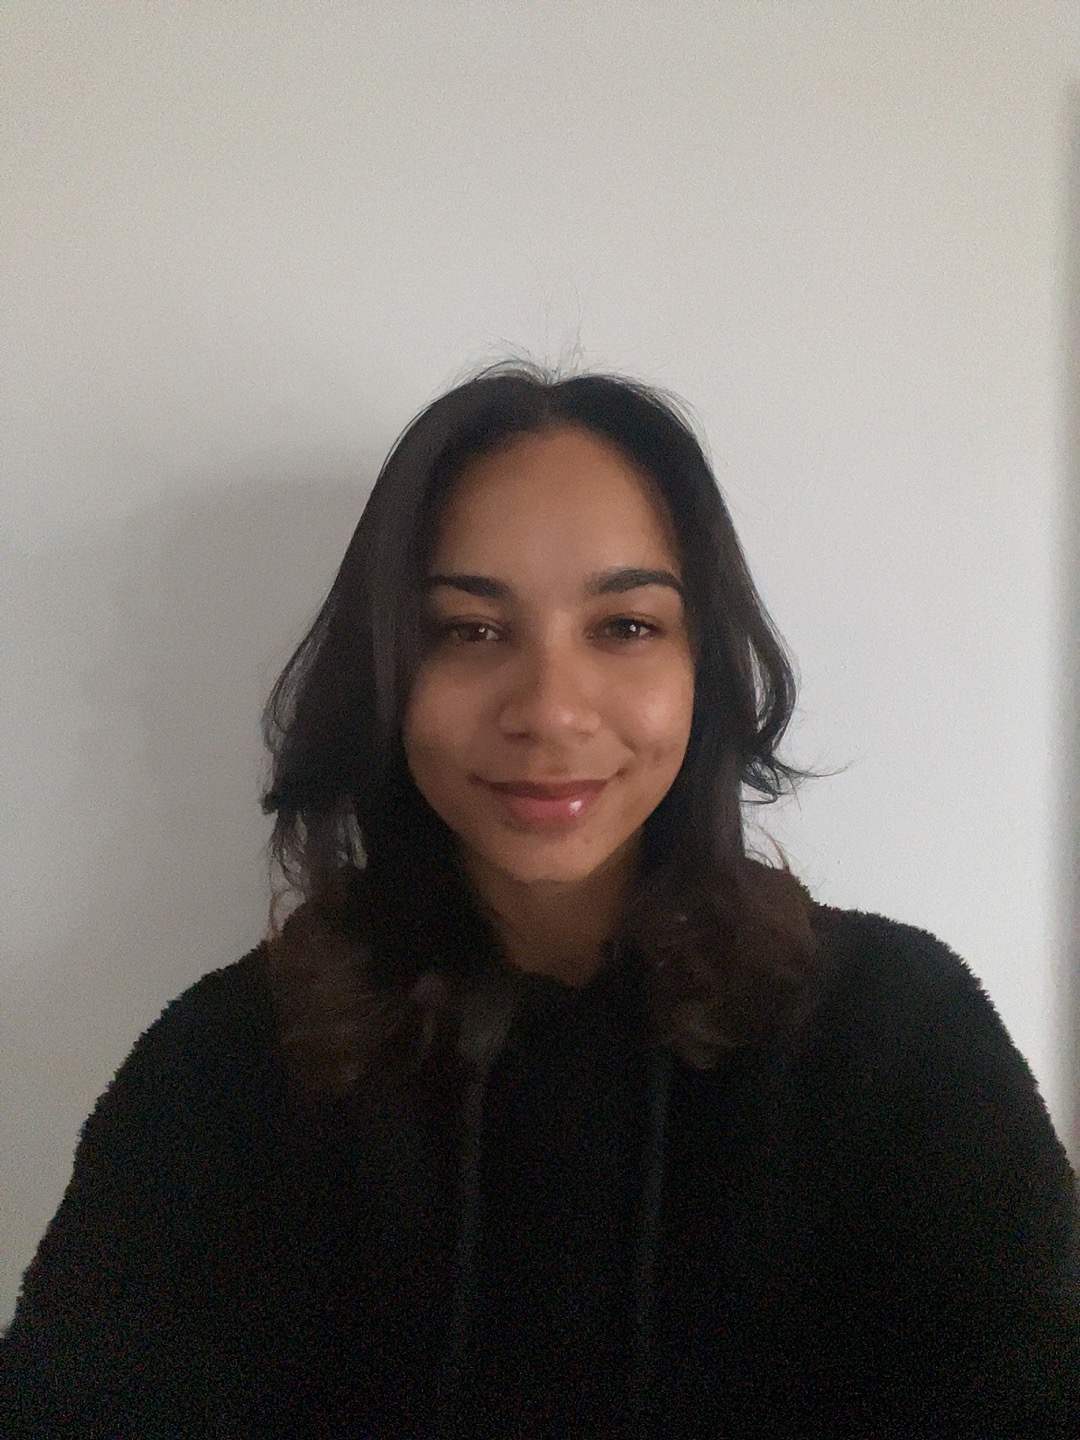
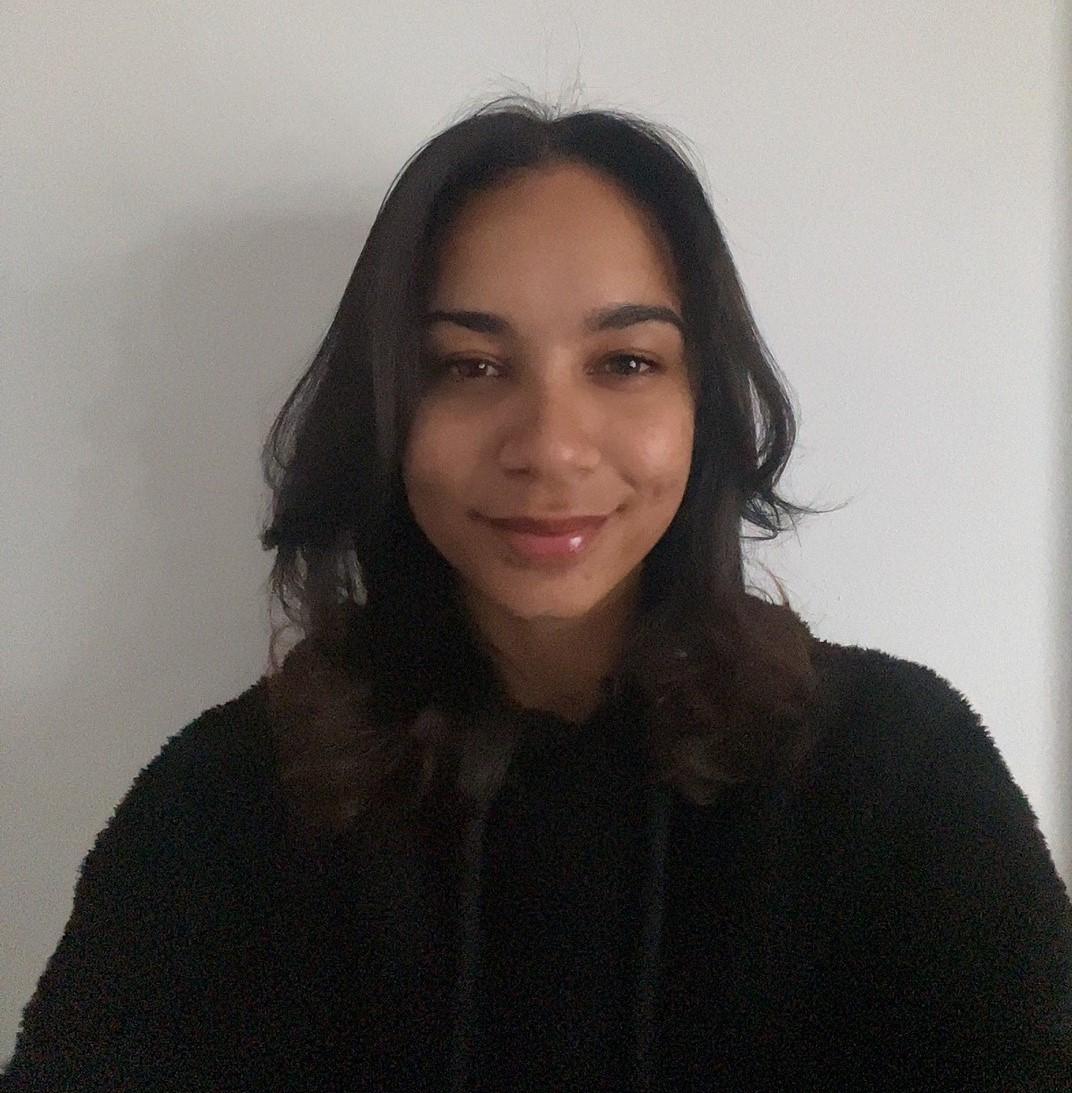
First Commit

diff --git a/index.html b/index.html
@@ -13,7 +13,9 @@
 </head>
 <body>
 
-    <nav>
+    <div class= "container">
+        <section class="one">
+      <nav>
         <ul class="links">
             <li><a class="icon" href="index.html" style="font-family: 'Custom'; font-size: 35px; letter-spacing: 1px;">My Portfolio</a></li>
             <li><a href="index.html">Home</a></li>
@@ -22,8 +24,35 @@
             <li><a href="Education.html">Education</a></li>
             <li><a href="Projects.html">Projects</a></li>
         </ul>
-    </nav>
+    </nav> 
+    <div class="sec">
+        <p class="name">Hello, I'm <br><span class="ed_name">Ammaarah Fakier</span></p><br>
+        <p class="sub">An Aspiring<br><span class="ed_sub">Software Developer</span></p><br>
+    </div>
+    
+    <div class="btns">
+      <button class="btn">Download CV</button>  
+      <button class="abt_btn"><a href="ContactMe.html">Contact Me</a></button>
+    </div>
+    <img class="me_pic" src="images/me.jpg" alt="">
+    
+        </section>
 
+        <section class="two">
+            <h1>Second Page</h1>
+        </section>
+
+        <section class="three">
+            <h1>Third Page</h1>
+        </section>
+
+        <section class="four">
+            <h1>Fourth Page</h1>
+        </section>
+    </div>
+    
+
+    
 
   <!-- <div class="pic_image">
         <img class="blue_brush" src="images/blue.png" alt=""> 

diff --git a/style.css b/style.css
@@ -5,6 +5,7 @@
 *{
     padding: 0;
     margin: 0;
+    box-sizing: border-box;
 }
 body{
     min-height: 100vh;
@@ -69,7 +70,65 @@ nav li:first-child{
     margin-right: auto;
     padding-left: 5px;
 }
-p{
-    font-family: 'Custom';
-    color: black;
+.me_pic{
+    height: 350px;
+    width: 350px;
+    border-radius: 50%;
 }
+.container .me_pic{
+    display: block;
+    margin-left: auto;
+    margin-right: auto;
+    margin-top: 150px;
+}
+section{
+    height: 100vh;
+}
+.two{
+    background-color: #ece1db;
+}
+.sec{
+    position: relative;
+    right: 0;
+   
+}
+.name{
+    font-family:Georgia, 'Times New Roman', Times, serif;
+    font-size: 1.2rem;
+    font-weight: bold;
+}
+.ed_name{
+    font-family: 'Designer';
+    font-size: 2rem;
+    color: #273248;
+}
+.sub{
+    font-family: Georgia, 'Times New Roman', Times, serif;
+    font-size: 1.2rem;
+    font-weight: bold;
+
+}
+.ed_sub{
+    font-family: 'Designer';
+    font-size: 2rem;
+    color: #273248;
+}
+.btns{
+    display: flex;
+    position: relative;
+    margin-left: auto;
+    
+}
+.btn{
+    background-color: #b0b7cc;
+    color: #273248;
+    padding: 5px 10px;
+}
+.abt_btn{
+    background-color: #b0b7cc;
+    color: #273248;
+    padding: 5px 10px;
+    margin-left: 10px;
+}
+
+
